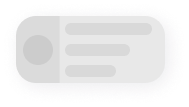
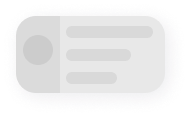
feat: skeleton_coupon_big.png 이미지 변경

diff --git a/frontend/src/@components/coupon/CouponList/vertical.tsx b/frontend/src/@components/coupon/CouponList/vertical.tsx
@@ -19,7 +19,7 @@ const VerticalCouponList = (props: VerticalCouponListProps) => {
       <Styled.Root>
         <Styled.TextContainer>
           <div>
-            <img src='/assets/images/skeleton_coupon_big.png' alt='쿠폰' width={100} />
+            <img src='/assets/images/skeleton_coupon_big.png' alt='쿠폰' width={130} />
           </div>
           <h2>아직 쿠폰이 존재하지 않아요.</h2>
           <h3>쿠폰을 생성해보세요!</h3>
